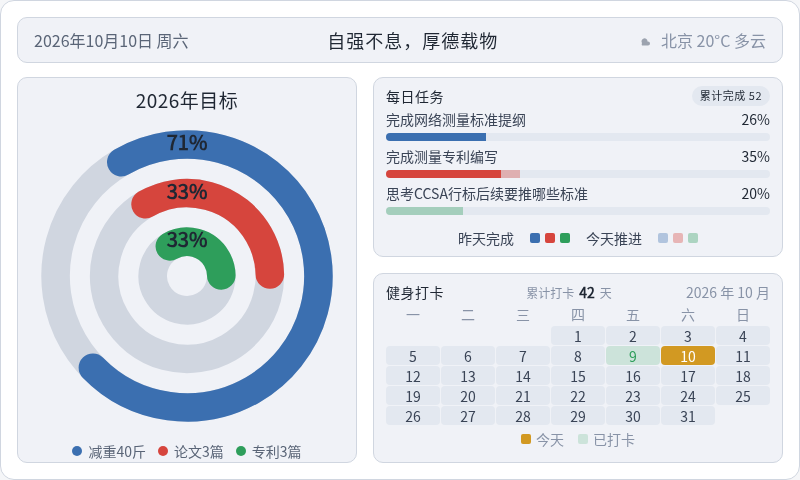
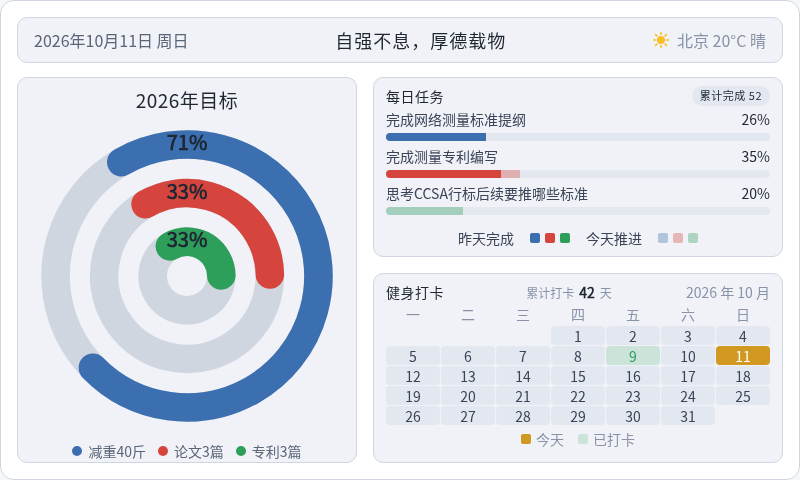
chore: 每日看板刷新 2026-10-11

diff --git a/output/dashboard/dashboard.html b/output/dashboard/dashboard.html
@@ -185,11 +185,11 @@
 <body>
   <div class="dash">
     <div class="topbar">
-      <div class="tb-date" id="tbDate">2026年10月10日 周六</div>
+      <div class="tb-date" id="tbDate">2026年10月11日 周日</div>
       <div class="tb-slogan">自强不息，厚德载物</div>
       <div class="tb-weather">
-        <svg width="16" height="16" viewBox="0 0 16 16" aria-hidden="true"><path d="M5 11 a3 3 0 1 1 5.5 -1.5 h0.5 a2 2 0 1 1 0 4 H5 a2.5 2.5 0 0 1 0 -2.5z" fill="#9ca3af"/></svg>
-        <span>北京 20°C 多云</span>
+        <svg width="16" height="16" viewBox="0 0 16 16" aria-hidden="true"><circle cx="8" cy="8" r="4" fill="#fbbf24"/><g stroke="#fbbf24" stroke-width="1.5" stroke-linecap="round"><line x1="8" y1="0.5" x2="8" y2="2.5"/><line x1="8" y1="13.5" x2="8" y2="15.5"/><line x1="0.5" y1="8" x2="2.5" y2="8"/><line x1="13.5" y1="8" x2="15.5" y2="8"/><line x1="2.5" y1="2.5" x2="3.9" y2="3.9"/><line x1="12.1" y1="12.1" x2="13.5" y2="13.5"/><line x1="13.5" y1="2.5" x2="12.1" y2="3.9"/><line x1="3.9" y1="12.1" x2="2.5" y2="13.5"/></g></svg>
+        <span>北京 20°C 晴</span>
       </div>
     </div>
     <div class="content">
@@ -248,7 +248,7 @@
           <span class="cal-date">2026 年 10 月</span>
         </div>
         <div class="cal-grid wk"><span>一</span><span>二</span><span>三</span><span>四</span><span>五</span><span>六</span><span>日</span></div>
-        <div class="cal-grid"><span class="cell empty"></span><span class="cell empty"></span><span class="cell empty"></span><span class="cell" style="background:#e3e8f0;color:#3a4456">1</span><span class="cell" style="background:#e3e8f0;color:#3a4456">2</span><span class="cell" style="background:#e3e8f0;color:#3a4456">3</span><span class="cell" style="background:#e3e8f0;color:#3a4456">4</span><span class="cell" style="background:#e3e8f0;color:#3a4456">5</span><span class="cell" style="background:#e3e8f0;color:#3a4456">6</span><span class="cell" style="background:#e3e8f0;color:#3a4456">7</span><span class="cell" style="background:#e3e8f0;color:#3a4456">8</span><span class="cell done" style="background:rgba(46,158,91,0.18);color:#2e9e5b">9</span><span class="cell today" style="background:#d29922;color:#ffffff">10</span><span class="cell" style="background:#e3e8f0;color:#3a4456">11</span><span class="cell" style="background:#e3e8f0;color:#3a4456">12</span><span class="cell" style="background:#e3e8f0;color:#3a4456">13</span><span class="cell" style="background:#e3e8f0;color:#3a4456">14</span><span class="cell" style="background:#e3e8f0;color:#3a4456">15</span><span class="cell" style="background:#e3e8f0;color:#3a4456">16</span><span class="cell" style="background:#e3e8f0;color:#3a4456">17</span><span class="cell" style="background:#e3e8f0;color:#3a4456">18</span><span class="cell" style="background:#e3e8f0;color:#3a4456">19</span><span class="cell" style="background:#e3e8f0;color:#3a4456">20</span><span class="cell" style="background:#e3e8f0;color:#3a4456">21</span><span class="cell" style="background:#e3e8f0;color:#3a4456">22</span><span class="cell" style="background:#e3e8f0;color:#3a4456">23</span><span class="cell" style="background:#e3e8f0;color:#3a4456">24</span><span class="cell" style="background:#e3e8f0;color:#3a4456">25</span><span class="cell" style="background:#e3e8f0;color:#3a4456">26</span><span class="cell" style="background:#e3e8f0;color:#3a4456">27</span><span class="cell" style="background:#e3e8f0;color:#3a4456">28</span><span class="cell" style="background:#e3e8f0;color:#3a4456">29</span><span class="cell" style="background:#e3e8f0;color:#3a4456">30</span><span class="cell" style="background:#e3e8f0;color:#3a4456">31</span></div>
+        <div class="cal-grid"><span class="cell empty"></span><span class="cell empty"></span><span class="cell empty"></span><span class="cell" style="background:#e3e8f0;color:#3a4456">1</span><span class="cell" style="background:#e3e8f0;color:#3a4456">2</span><span class="cell" style="background:#e3e8f0;color:#3a4456">3</span><span class="cell" style="background:#e3e8f0;color:#3a4456">4</span><span class="cell" style="background:#e3e8f0;color:#3a4456">5</span><span class="cell" style="background:#e3e8f0;color:#3a4456">6</span><span class="cell" style="background:#e3e8f0;color:#3a4456">7</span><span class="cell" style="background:#e3e8f0;color:#3a4456">8</span><span class="cell done" style="background:rgba(46,158,91,0.18);color:#2e9e5b">9</span><span class="cell" style="background:#e3e8f0;color:#3a4456">10</span><span class="cell today" style="background:#d29922;color:#ffffff">11</span><span class="cell" style="background:#e3e8f0;color:#3a4456">12</span><span class="cell" style="background:#e3e8f0;color:#3a4456">13</span><span class="cell" style="background:#e3e8f0;color:#3a4456">14</span><span class="cell" style="background:#e3e8f0;color:#3a4456">15</span><span class="cell" style="background:#e3e8f0;color:#3a4456">16</span><span class="cell" style="background:#e3e8f0;color:#3a4456">17</span><span class="cell" style="background:#e3e8f0;color:#3a4456">18</span><span class="cell" style="background:#e3e8f0;color:#3a4456">19</span><span class="cell" style="background:#e3e8f0;color:#3a4456">20</span><span class="cell" style="background:#e3e8f0;color:#3a4456">21</span><span class="cell" style="background:#e3e8f0;color:#3a4456">22</span><span class="cell" style="background:#e3e8f0;color:#3a4456">23</span><span class="cell" style="background:#e3e8f0;color:#3a4456">24</span><span class="cell" style="background:#e3e8f0;color:#3a4456">25</span><span class="cell" style="background:#e3e8f0;color:#3a4456">26</span><span class="cell" style="background:#e3e8f0;color:#3a4456">27</span><span class="cell" style="background:#e3e8f0;color:#3a4456">28</span><span class="cell" style="background:#e3e8f0;color:#3a4456">29</span><span class="cell" style="background:#e3e8f0;color:#3a4456">30</span><span class="cell" style="background:#e3e8f0;color:#3a4456">31</span></div>
         <div class="cal-legend">
           <span style="color:#8893a7"><i class="sw" style="background:#d29922"></i>今天</span>
           <span style="color:#8893a7"><i class="sw" style="background:rgba(46,158,91,0.18)"></i>已打卡</span>
